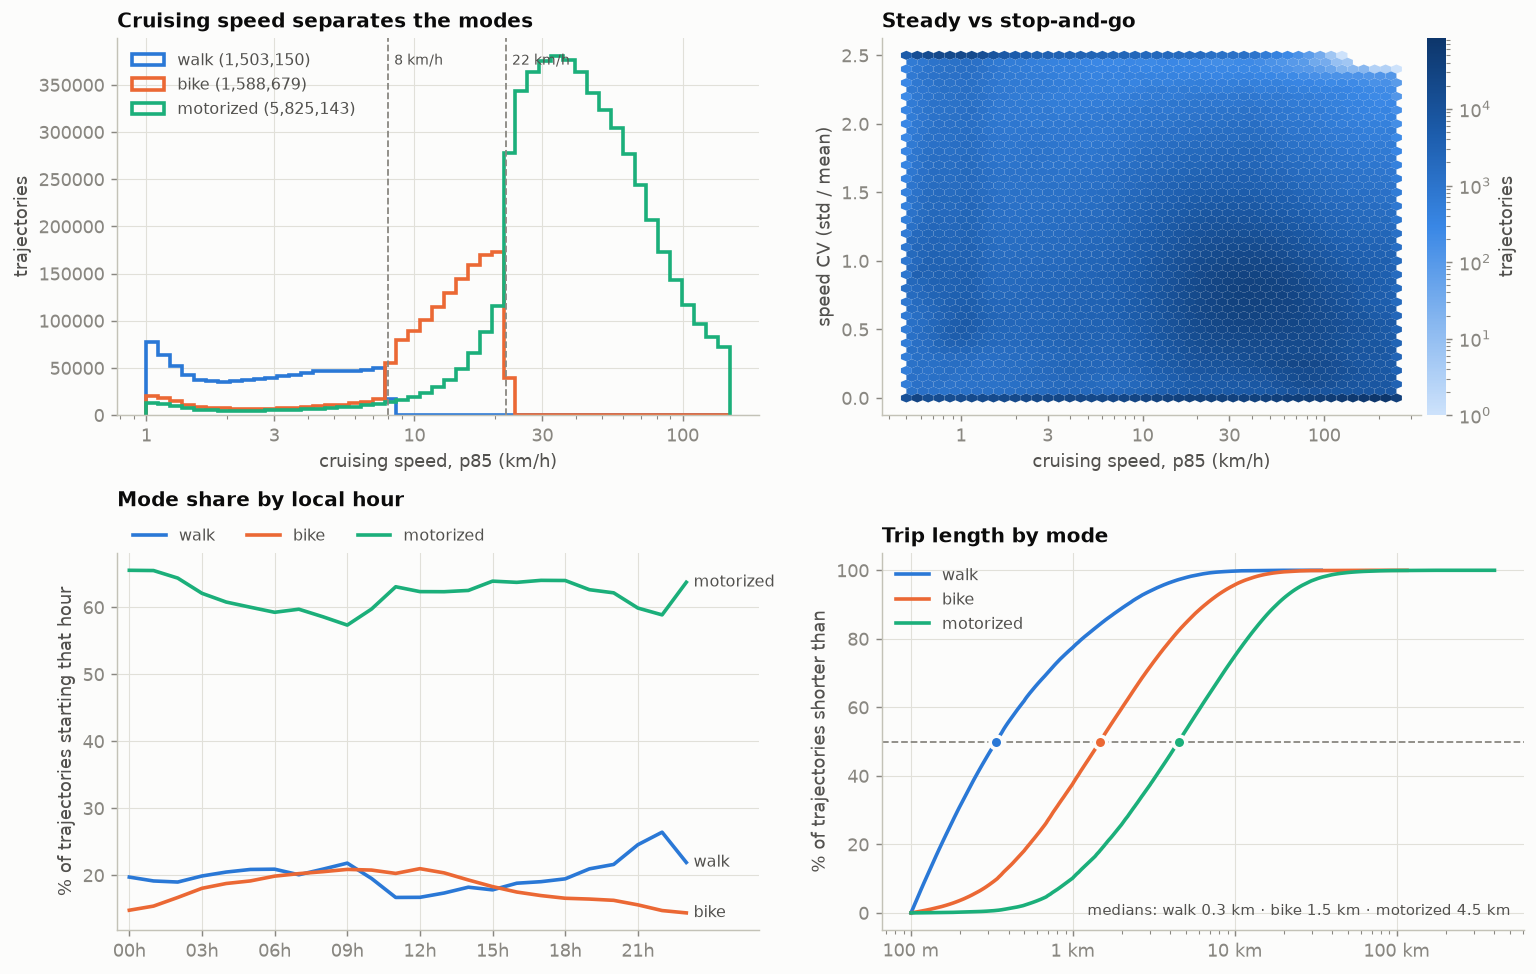
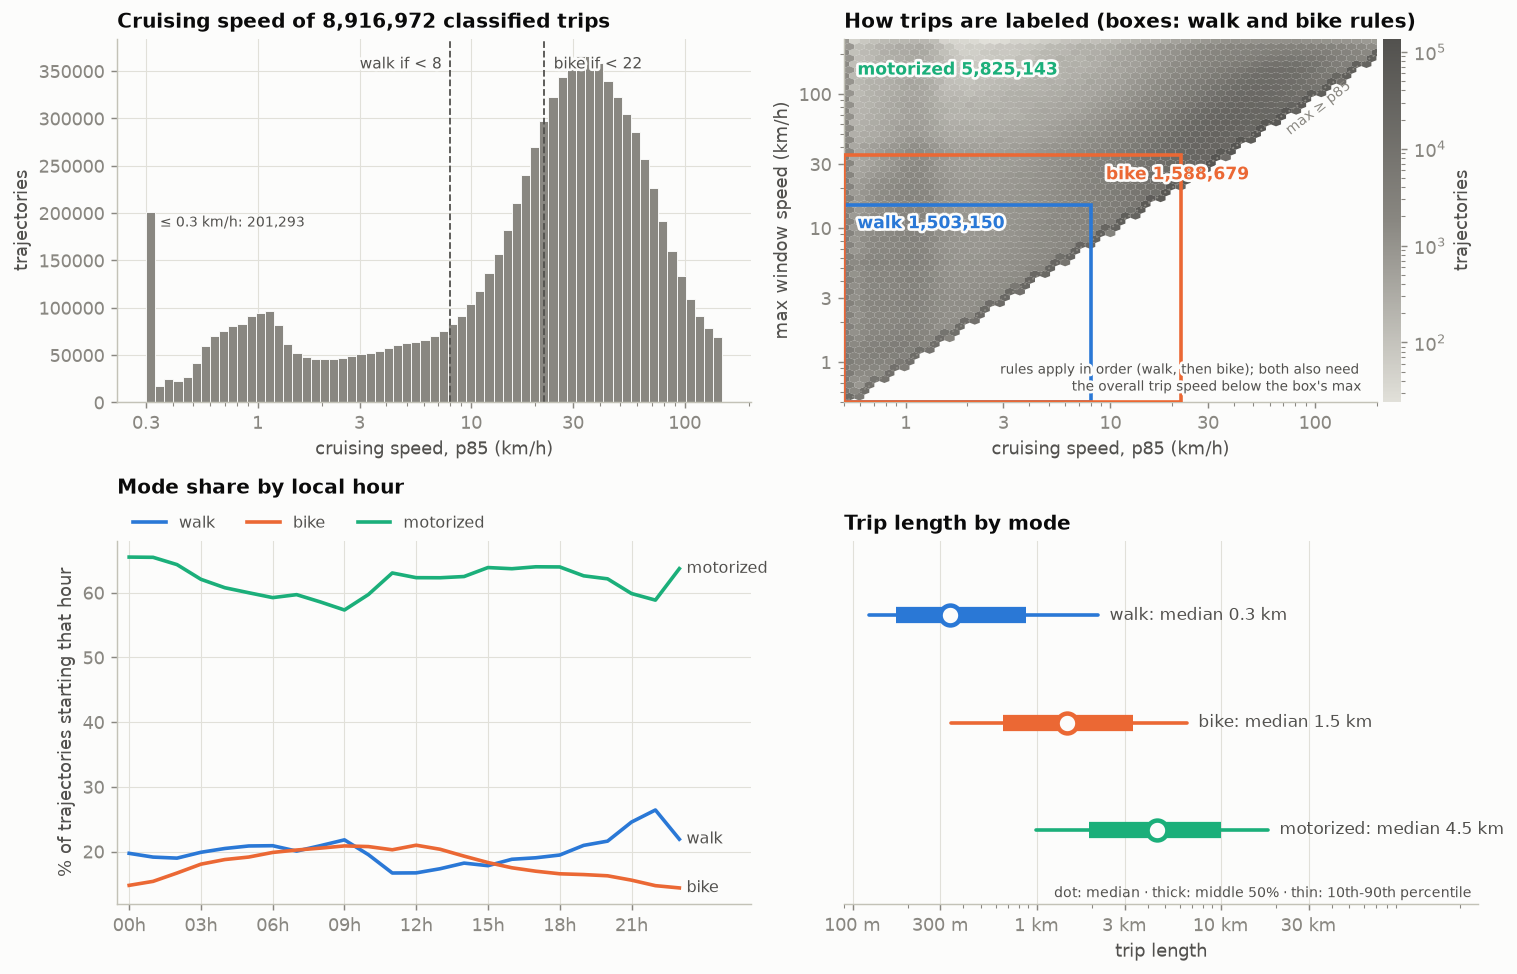
Redesign the mode figure and cache-bust doc figures
- mode figure: neutral histogram of cruising speed with thresholds; new "how trips
  are labeled" panel (p85 x max density with the walk/bike rule boxes); trip length
  as median / middle 50% / 10-90th percentile instead of a cumulative curve
- docs: MkDocs hook adds a content hash to figure URLs so browsers never show stale
  figures after an update
- docs text updated for the new panels

diff --git a/examples/make_figures.py b/examples/make_figures.py
@@ -208,34 +208,63 @@ MODES = ["walk", "bike", "motorized"]
 
 
 def fig_mode_features(tr, hw, t, out):
-    """Speed features by mode_guess: cruising speed, variability, hour of day, length."""
+    """Mode figure: cruising speed of all trips, the labeling rules in the p85 x max plane,
+    mode share by hour and trip length by mode."""
     cl = dict(zip(MODES, t["series"]))
     d = tr.filter(pl.col("mode_guess").is_in(MODES))
     fig, axes = plt.subplots(2, 2, figsize=(12, 7.6))
 
-    ax = axes[0, 0]
-    bins = np.logspace(0, np.log10(150), 50)
-    for m in MODES:
-        x = d.filter(pl.col("mode_guess") == m)["speed_p85_kmh"].to_numpy()
-        ax.hist(x, bins=bins, histtype="step", lw=2, color=cl[m], label=f"{m} ({len(x):,})")
-    for thr, lab in [(8, "8 km/h"), (22, "22 km/h")]:
-        ax.axvline(thr, color=t["muted"], lw=1, ls="--")
-        ax.text(thr * 1.05, ax.get_ylim()[1] * 0.93, lab, color=t["ink2"], fontsize=8)
-    ax.set_xscale("log"), ax.set_xticks([1, 3, 10, 30, 100], ["1", "3", "10", "30", "100"])
-    ax.set_xlabel("cruising speed, p85 (km/h)"), ax.set_ylabel("trajectories")
-    ax.set_title("Cruising speed separates the modes"), ax.legend(loc="upper left", fontsize=9)
+    ticks = ([1, 3, 10, 30, 100], ["1", "3", "10", "30", "100"])
 
+    import matplotlib.patheffects as pe
+
+    # (a) cruising speed of every classified trip, one neutral series, thresholds marked
+    ax = axes[0, 0]
+    bins = np.logspace(np.log10(0.3), np.log10(150), 64)
+    x = d["speed_p85_kmh"].clip(lower_bound=0.3).to_numpy()
+    ax.hist(x, bins=bins, color=t["muted"], edgecolor=t["surface"], linewidth=0.5)
+    top = ax.get_ylim()[1]
+    first = int((x <= bins[1]).sum())
+    ax.annotate(f"≤ 0.3 km/h: {first:,}", (0.31, first), xytext=(6, -2), textcoords="offset points",
+                fontsize=8, color=t["ink2"], va="top")
+    for thr, lab, side in [(8, "walk if < 8 ", "right"), (22, " bike if < 22", "left")]:
+        ax.axvline(thr, color=t["ink2"], lw=1, ls="--")
+        ax.text(thr * (0.95 if side == "right" else 1.05), top * 0.95, lab, color=t["ink2"], fontsize=8.5,
+                ha=side, va="top", path_effects=[pe.withStroke(linewidth=3, foreground=t["surface"])])
+    ax.set_xscale("log"), ax.set_xticks([0.3, 1, 3, 10, 30, 100], ["0.3", "1", "3", "10", "30", "100"])
+    ax.set_xlabel("cruising speed, p85 (km/h)"), ax.set_ylabel("trajectories")
+    ax.set_title(f"Cruising speed of {len(x):,} classified trips")
+
+    # (b) how trips are labeled: density in the p85 x max plane with the decision regions
     ax = axes[0, 1]
-    c = tr.filter(pl.col("speed_p85_kmh").is_not_null() & pl.col("speed_cv").is_not_null()
-                  & (pl.col("speed_p85_kmh") > 0.5))
-    cmap = LinearSegmentedColormap.from_list("seq", t["seq"])
-    hb = ax.hexbin(c["speed_p85_kmh"], c["speed_cv"].clip(upper_bound=2.5), xscale="log", gridsize=45, cmap=cmap,
-                   norm=LogNorm(), mincnt=1, linewidths=0)
-    ax.set_xticks([1, 3, 10, 30, 100], ["1", "3", "10", "30", "100"]), ax.grid(False)
-    ax.set_xlabel("cruising speed, p85 (km/h)"), ax.set_ylabel("speed CV (std / mean)")
-    ax.set_title("Steady vs stop-and-go")
+    c = d.filter(pl.col("speed_max_kmh") > 0)
+    p85 = c["speed_p85_kmh"].clip(lower_bound=0.5).to_numpy()
+    vmax = c["speed_max_kmh"].clip(lower_bound=0.5).to_numpy()
+    # neutral density so the colored rule boxes stand out
+    gray = LinearSegmentedColormap.from_list("gray", [t["grid"], t["muted"], t["ink2"]])
+    hb = ax.hexbin(p85, vmax, xscale="log", yscale="log", gridsize=55, cmap=gray, norm=LogNorm(), mincnt=1,
+                   linewidths=0, zorder=1)
+    halo = [pe.withStroke(linewidth=3, foreground=t["surface"])]
+    from matplotlib.patches import Rectangle
+    for m, (xr, yr) in {"walk": (8, 15), "bike": (22, 35)}.items():
+        ax.add_patch(Rectangle((0.5, 0.5), xr - 0.5, yr - 0.5, fill=False, ec=cl[m], lw=2, zorder=3))
+    counts = d["mode_guess"].value_counts()
+    n = dict(zip(counts["mode_guess"], counts["count"]))
+    for txt, xy, m in [(f"walk {n.get('walk', 0):,}", (0.58, 12.5), "walk"),
+                       (f"bike {n.get('bike', 0):,}", (9.5, 29), "bike"),
+                       (f"motorized {n.get('motorized', 0):,}", (0.58, 175), "motorized")]:
+        ax.text(*xy, txt, color=cl[m], fontsize=9.5, fontweight="bold", va="top", zorder=5, path_effects=halo)
+    lo, hi = 0.5, 260
+    ax.plot([lo, hi], [lo, hi], color=t["muted"], lw=1, ls=":", zorder=2)
+    ax.text(70, 50, "max ≥ p85", color=t["muted"], fontsize=8, rotation=38, zorder=2)
+    ax.set_xlim(lo, 200), ax.set_ylim(lo, hi)
+    ax.set_xticks(*ticks), ax.set_yticks([1, 3, 10, 30, 100], ["1", "3", "10", "30", "100"]), ax.grid(False)
+    ax.set_xlabel("cruising speed, p85 (km/h)"), ax.set_ylabel("max window speed (km/h)")
+    ax.set_title("How trips are labeled (boxes: walk and bike rules)")
     cb = fig.colorbar(hb, ax=ax, pad=0.01)
     cb.set_label("trajectories", color=t["ink2"]), cb.outline.set_visible(False)
+    ax.text(0.99, 0.02, "rules apply in order (walk, then bike); both also need\nthe overall trip speed below the box's max",
+            transform=ax.transAxes, ha="right", va="bottom", fontsize=7.5, color=t["ink2"], path_effects=halo)
 
     ax = axes[1, 0]
     tz = hw.select("uid", pl.col("stop_event").alias("origin_stop_event"), "inputed_timezone").unique(
@@ -257,20 +286,22 @@ def fig_mode_features(tr, hw, t, out):
     ax.legend(loc="lower left", bbox_to_anchor=(0, 0.98), ncols=3, fontsize=9, borderaxespad=0.6)
     ax.set_title("Mode share by local hour", pad=26)
 
+    # (d) trip length by mode: median (dot), middle half (thick), 10-90th percentile (thin)
     ax = axes[1, 1]
-    meds = []
-    for m in MODES:
-        x = np.sort(d.filter(pl.col("mode_guess") == m)["length_m"].to_numpy() / 1000)
-        ax.plot(x, np.arange(1, len(x) + 1) / len(x) * 100, color=cl[m], lw=2, label=m)
-        med = float(np.median(x))
-        ax.plot([med], [50], "o", ms=7, color=cl[m], mec=t["surface"], mew=2, zorder=5)
-        meds.append(f"{m} {med:.1f} km")
-    ax.text(0.98, 0.04, "medians: " + " · ".join(meds), transform=ax.transAxes, ha="right", fontsize=8.5,
-            color=t["ink2"])
-    ax.legend(loc="upper left", fontsize=9)
-    ax.set_xscale("log"), ax.set_xticks([0.1, 1, 10, 100], ["100 m", "1 km", "10 km", "100 km"])
-    ax.axhline(50, color=t["muted"], lw=1, ls="--")
-    ax.set_ylabel("% of trajectories shorter than"), ax.set_title("Trip length by mode")
+    for row, m in enumerate(reversed(MODES)):
+        x = d.filter(pl.col("mode_guess") == m)["length_m"].to_numpy() / 1000
+        p10, p25, p50, p75, p90 = np.percentile(x, [10, 25, 50, 75, 90])
+        ax.plot([p10, p90], [row, row], color=cl[m], lw=2, solid_capstyle="round")
+        ax.plot([p25, p75], [row, row], color=cl[m], lw=9, solid_capstyle="butt")
+        ax.plot([p50], [row], "o", ms=11, color=t["surface"], mec=cl[m], mew=2.5, zorder=3)
+        ax.text(p90 * 1.15, row, f"{m}: median {p50:.1f} km", color=t["ink2"], fontsize=9.5, va="center")
+    ax.set_xscale("log"), ax.set_xticks([0.1, 0.3, 1, 3, 10, 30], ["100 m", "300 m", "1 km", "3 km", "10 km", "30 km"])
+    ax.set_xlim(0.09, 250), ax.set_ylim(-0.7, 2.7), ax.set_yticks([]), ax.grid(axis="y", visible=False)
+    ax.spines["left"].set_visible(False)
+    ax.set_xlabel("trip length")
+    ax.set_title("Trip length by mode")
+    ax.text(0.99, 0.02, "dot: median · thick: middle 50% · thin: 10th-90th percentile", transform=ax.transAxes,
+            ha="right", fontsize=8, color=t["ink2"])
     fig.tight_layout()
     fig.savefig(out, dpi=130, bbox_inches="tight")
     plt.close(fig)

diff --git a/mkdocs_hooks/cache_bust.py b/mkdocs_hooks/cache_bust.py
@@ -1,0 +1,27 @@
+"""MkDocs hook: add a content hash to figure URLs so browsers never show stale images.
+
+``assets/figures/x.png#only-light`` becomes ``assets/figures/x.png?v=1a2b3c4d#only-light``.
+The hash changes only when the file does, so unchanged figures stay cached.
+"""
+
+import functools
+import hashlib
+import re
+from pathlib import Path
+
+_FIG = re.compile(r'(?P<url>(?:\.\./)*assets/figures/(?P<name>[\w.-]+\.png))(?P<rest>[#"\'])')
+
+
+@functools.cache
+def _digest(path: str) -> str:
+    return hashlib.md5(Path(path).read_bytes()).hexdigest()[:8]
+
+
+def on_page_content(html, page, config, files, **kwargs):
+    figures = Path(config["docs_dir"]) / "assets" / "figures"
+
+    def stamp(m: re.Match) -> str:
+        f = figures / m["name"]
+        return f"{m['url']}?v={_digest(str(f))}{m['rest']}" if f.exists() else m[0]
+
+    return _FIG.sub(stamp, html)

diff --git a/docs/examples/example-data.md b/docs/examples/example-data.md
@@ -88,13 +88,16 @@ trips.group_by("mode_guess").agg(
 ![Speed features by mode](../assets/figures/mode_features_light.png#only-light)
 ![Speed features by mode](../assets/figures/mode_features_dark.png#only-dark)
 
-- **Cruising speed (p85)** separates the classes by construction. The thresholds (8 and
-  22 km/h) are the baseline rules; motorized trips peak around 30 km/h.
-- **Speed CV vs p85**: most trips are stop-and-go (CV ~1). Steady fast trips (low CV, high p85)
-  are a distinct minority, mostly highways and rail.
-- **Mode share by hour**: motorized trips dominate the morning and evening peaks; slow
-  movement dominates the night.
-- **Trip length by mode**: medians of 0.3 km (walk), 1.6 km (bike) and 6.3 km (motorized).
+- **Cruising speed of all trips** (top left), one series with the walk and bike thresholds
+  marked: motorized-speed trips peak around 30 km/h.
+- **How trips are labeled** (top right): every trip by cruising speed (p85) and max speed. The
+  colored boxes are the walk and bike rules, applied in order, and the numbers are the trips
+  each class received. A trip with a walking-like p85 but a fast window lands outside the walk
+  box. Both boxes also require an overall trip speed below the box's max.
+- **Mode share by local hour** (bottom left): motorized trips dominate the morning and evening
+  peaks; slow movement dominates the night.
+- **Trip length by mode** (bottom right): median dot, middle 50% bar and 10th–90th percentile
+  line. Medians are 0.3 km (walk), 1.6 km (bike) and 6.3 km (motorized).
 
 Speed over time for one trip of each class (shaded: gaps > 5 min, not used):
 

diff --git a/docs/guide/speed-and-mode.md b/docs/guide/speed-and-mode.md
@@ -74,6 +74,11 @@ With \(W = \sum_i w_i\) over the valid windows:
     It is most useful together with p85. High p85 with high CV suggests a bus or city traffic;
     high p85 with low CV suggests a highway or metro.
 
+The figure shows the example data. Top left: cruising speed of every trip, with the
+thresholds marked. Top right: **how trips are labeled**, with every trip placed by p85 and max
+speed and the walk and bike rules drawn as boxes. Bottom: mode share by hour and trip length by
+mode (median, middle 50%, 10th–90th percentile).
+
 ![Speed features by mode](../assets/figures/mode_features_light.png#only-light)
 ![Speed features by mode](../assets/figures/mode_features_dark.png#only-dark)
 
